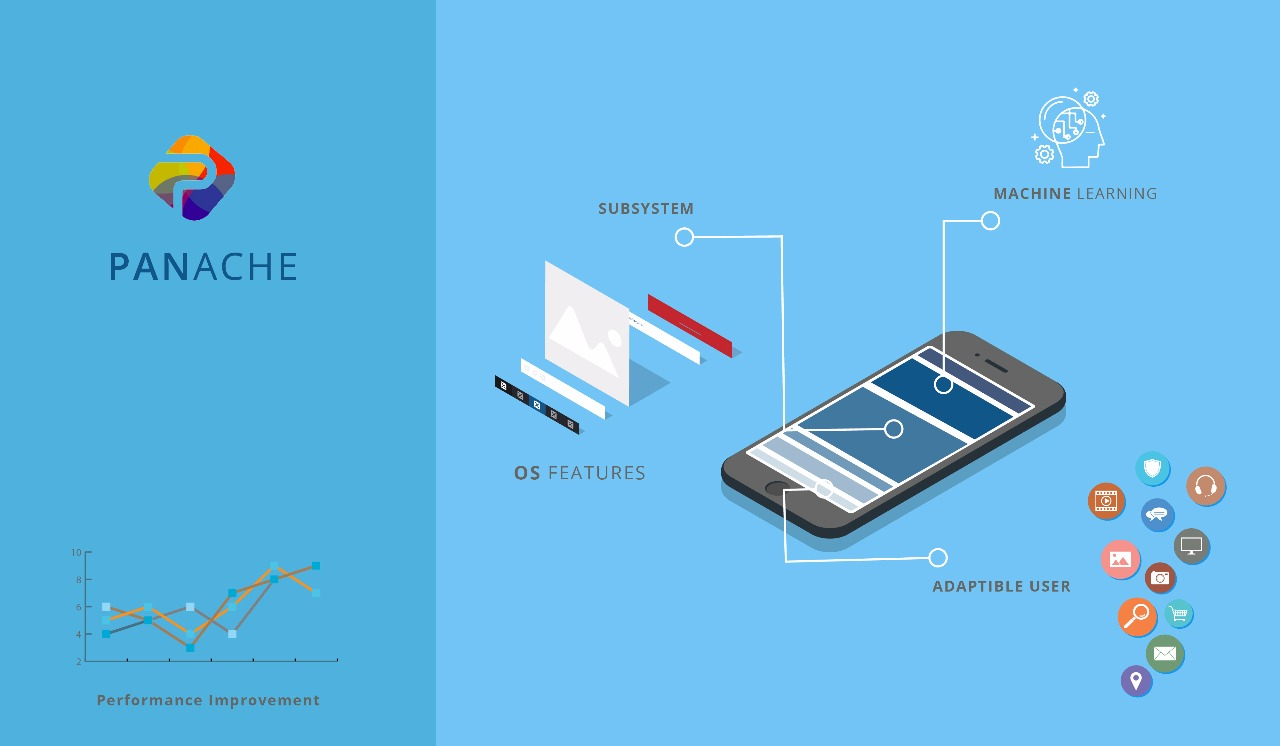
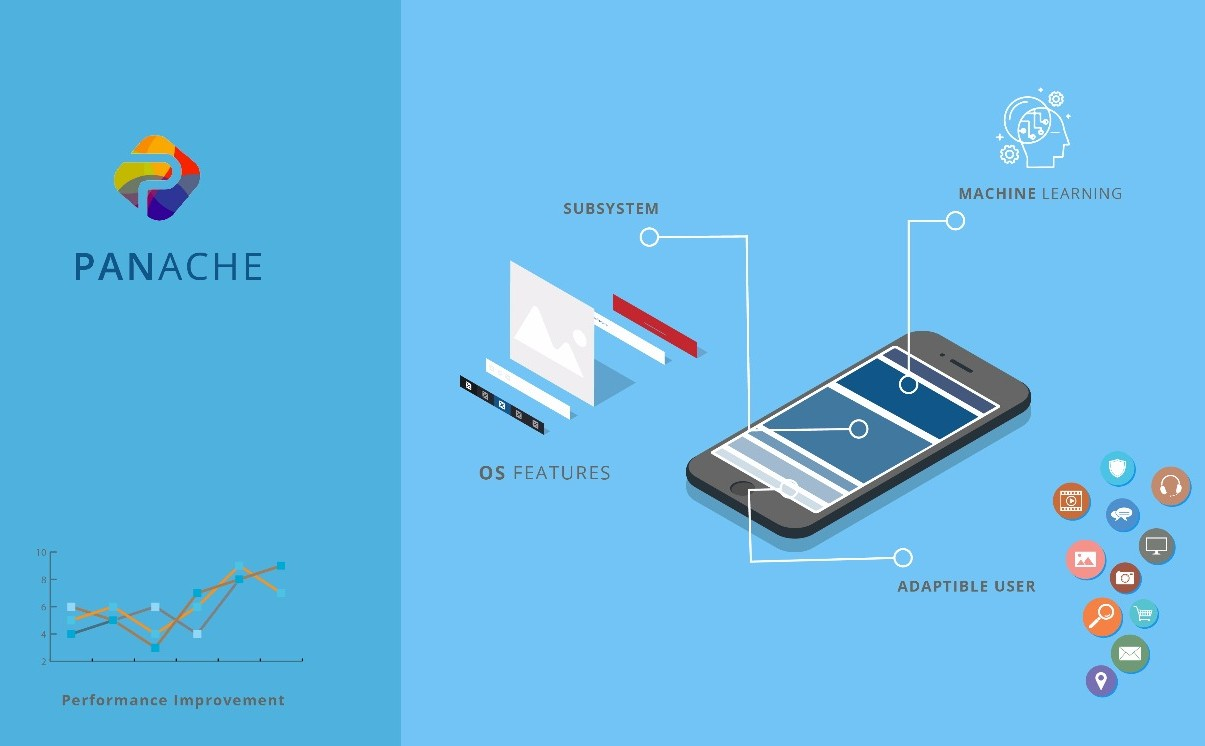
improved colors and orientation changes

diff --git a/index.html b/index.html
@@ -75,9 +75,9 @@
                     <li>
                         <a class="page-scroll" href="#working">Working</a>
                     </li>
-                    <li>
-                        <a class="page-scroll" href="#download">Download</a>
-                    </li>
+                    <!-- <li>
+                        <a class="page-scroll" href="#download">Invest</a>
+                    </li> -->
                     <li>
                         <a class="page-scroll" href="#contact">Contact</a>
                     </li>
@@ -101,7 +101,7 @@
                 </div>
                 <div class="col-sm-5">
                     <div class="device-container">
-                        <div class="device-mockup galaxy_s5 portrait white">
+                        <div class="device-mockup galaxy_s5 portrait black">
                             <div class="device">
                                 <div class="screen">
                                     <!-- Demo image for screen mockup, you can put an image here, some HTML, an animation, video, or anything else! -->
@@ -237,24 +237,24 @@
       </div>
     </section>
 
-    <section id="download" class="download bg-primary text-center">
+    <!-- <section id="download" class="download bg-primary text-center">
         <div class="container">
             <div class="row">
                 <div class="col-md-8 col-md-offset-2">
                     <h2 class="section-heading">Invest</h2>
-                    <!-- <div class="badges">
+                    <div class="badges">
                         <a class="badge-link" href="#"><img src="img/google-play-badge.svg" alt=""></a>
-                    </div> -->
+                    </div>
                 </div>
             </div>
         </div>
-    </section>
+    </section> -->
 
     <section id="contact" class="cta">
         <div class="cta-content">
             <div class="container">
-                <h2>Contact Us<br>
-                <center><a href="mailto:moldovanmateicristian@gmail.com" class="btn btn-outline btn-xl page-scroll">Let's get in touch.</a></center>
+                <h2>Contact Us</h2><br>
+                <a href="mailto:moldovanmateicristian@gmail.com" class="btn btn-outline btn-xl page-scroll" style="align:right;">Let's get in touch.</a>
             </div>
         </div>
         <div class="overlay"></div>

diff --git a/css/new-age.min.css b/css/new-age.min.css
@@ -153,9 +153,9 @@ header {
   overflow-y: hidden;
   background: url("../img/bg-pattern.png"), #780C0C;
   /* fallback for old browsers */
-  background: url("../img/bg-pattern.png"), -webkit-linear-gradient(to left, #0f8ec4, #62afdb);
+  background: url("../img/bg-pattern.png"), -webkit-linear-gradient(to left, #0182b5, #62afdb);
   /* Chrome 10-25, Safari 5.1-6 */
-  background: url("../img/bg-pattern.png"), linear-gradient(to left, #0f8ec4, #62afdb);
+  background: url("../img/bg-pattern.png"), linear-gradient(to left, #0182b5, #62afdb);
   /* W3C, IE 10+/ Edge, Firefox 16+, Chrome 26+, Opera 12+, Safari 7+ */
   color: white;
 }
@@ -219,7 +219,7 @@ header .device-container .screen img {
   }
 }
 section {
-  padding: 100px 0;
+  padding: 30px 0;
 }
 section h2 {
   font-size: 50px;
@@ -284,8 +284,8 @@ section.features .feature-item h3 {
 }
 section.features .feature-item i {
   font-size: 80px;
-  background: -webkit-linear-gradient(to left, #0f8ec4, #62afdb);
-  background: linear-gradient(to left, #0f8ec4, #62afdb);
+  background: -webkit-linear-gradient(to left, #0182b5, #62afdb);
+  background: linear-gradient(to left, #0182b5, #62afdb);
   -webkit-background-clip: text;
   -webkit-text-fill-color: transparent;
 }
@@ -302,7 +302,7 @@ section.cta {
   background-size: cover;
   -o-background-size: cover;
   background-position: center;
-  background-image: url('../img/bg-cta.jpg');
+  background-image: url('../img/portfolio/8.jpg');
   padding: 250px 0;
 }
 section.cta .cta-content {
